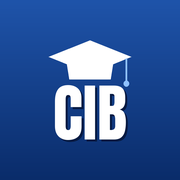
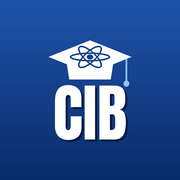
Átomo no capelo do ícone e cartão-resposta como ícone da Revisão ENEM
Claude-Session: https://claude.ai/code/session_01Gk3ac94Cfx6E4qgia26HRX

Changed region(s): [[0.3889, 0.25, 0.6111, 0.3889]]

diff --git a/index.html b/index.html
@@ -1158,6 +1158,8 @@ const Q_INDUCAO_2 = [
 /* ===== Estrutura do site: temas e listas. Para adicionar material, inclua um item em "listas" ou um novo tema. ===== */
 /* Capelo (ícone da revisão para o vestibular) */
 const CAPELO = '<svg viewBox="0 0 40 40" width="30" height="30" aria-hidden="true"><path d="M2 15 L20 7 L38 15 L20 23 Z" fill="currentColor"/><path d="M10 19 V28 Q20 34 30 28 V19 L20 23 Z" fill="currentColor"/><path d="M34 16.5 V27" stroke="currentColor" stroke-width="2"/><circle cx="34" cy="28.5" r="2.2" fill="currentColor"/></svg>';
+/* Cartão-resposta (ícone da revisão para a prova) */
+const CARTAO = '<svg viewBox="0 0 40 40" width="38" height="38" aria-hidden="true"><rect x="5" y="3" width="30" height="34" rx="3" fill="none" stroke="currentColor" stroke-width="2.4"/><circle cx="12.5" cy="12" r="2.7" fill="none" stroke="currentColor" stroke-width="1.5"/><circle cx="20" cy="12" r="2.7" fill="currentColor" stroke="currentColor" stroke-width="1.5"/><circle cx="27.5" cy="12" r="2.7" fill="none" stroke="currentColor" stroke-width="1.5"/><circle cx="12.5" cy="21" r="2.7" fill="none" stroke="currentColor" stroke-width="1.5"/><circle cx="20" cy="21" r="2.7" fill="none" stroke="currentColor" stroke-width="1.5"/><circle cx="27.5" cy="21" r="2.7" fill="currentColor" stroke="currentColor" stroke-width="1.5"/><circle cx="12.5" cy="30" r="2.7" fill="currentColor" stroke="currentColor" stroke-width="1.5"/><circle cx="20" cy="30" r="2.7" fill="none" stroke="currentColor" stroke-width="1.5"/><circle cx="27.5" cy="30" r="2.7" fill="none" stroke="currentColor" stroke-width="1.5"/></svg>';
 const SITE = {
   escola: 'Colégio Israelita Brasileiro',
   turma: '3ª série',
@@ -1166,7 +1168,7 @@ const SITE = {
   prof: 'Prof. Ricieri',
   temas: [
     {
-      id: 'enem', ico: CAPELO, nome: 'Revisão ENEM', cls: 'th-enem', estilo: 'estrada', deco: 'conquista',
+      id: 'enem', ico: CARTAO, nome: 'Revisão ENEM', cls: 'th-enem', estilo: 'estrada', deco: 'conquista',
       resumo: 'As 30 questões do aulão de Física, divididas em três listas por área.',
       listas: [
         { id: 'eletricidade', key: 'cib3-enem-eletricidade-v1', num: 1,

diff --git a/fonte/engine_app.js b/fonte/engine_app.js
@@ -1,6 +1,8 @@
 /* ===== Estrutura do site: temas e listas. Para adicionar material, inclua um item em "listas" ou um novo tema. ===== */
 /* Capelo (ícone da revisão para o vestibular) */
 const CAPELO = '<svg viewBox="0 0 40 40" width="30" height="30" aria-hidden="true"><path d="M2 15 L20 7 L38 15 L20 23 Z" fill="currentColor"/><path d="M10 19 V28 Q20 34 30 28 V19 L20 23 Z" fill="currentColor"/><path d="M34 16.5 V27" stroke="currentColor" stroke-width="2"/><circle cx="34" cy="28.5" r="2.2" fill="currentColor"/></svg>';
+/* Cartão-resposta (ícone da revisão para a prova) */
+const CARTAO = '<svg viewBox="0 0 40 40" width="38" height="38" aria-hidden="true"><rect x="5" y="3" width="30" height="34" rx="3" fill="none" stroke="currentColor" stroke-width="2.4"/><circle cx="12.5" cy="12" r="2.7" fill="none" stroke="currentColor" stroke-width="1.5"/><circle cx="20" cy="12" r="2.7" fill="currentColor" stroke="currentColor" stroke-width="1.5"/><circle cx="27.5" cy="12" r="2.7" fill="none" stroke="currentColor" stroke-width="1.5"/><circle cx="12.5" cy="21" r="2.7" fill="none" stroke="currentColor" stroke-width="1.5"/><circle cx="20" cy="21" r="2.7" fill="none" stroke="currentColor" stroke-width="1.5"/><circle cx="27.5" cy="21" r="2.7" fill="currentColor" stroke="currentColor" stroke-width="1.5"/><circle cx="12.5" cy="30" r="2.7" fill="currentColor" stroke="currentColor" stroke-width="1.5"/><circle cx="20" cy="30" r="2.7" fill="none" stroke="currentColor" stroke-width="1.5"/><circle cx="27.5" cy="30" r="2.7" fill="none" stroke="currentColor" stroke-width="1.5"/></svg>';
 const SITE = {
   escola: 'Colégio Israelita Brasileiro',
   turma: '3ª série',
@@ -9,7 +11,7 @@ const SITE = {
   prof: 'Prof. Ricieri',
   temas: [
     {
-      id: 'enem', ico: CAPELO, nome: 'Revisão ENEM', cls: 'th-enem', estilo: 'estrada', deco: 'conquista',
+      id: 'enem', ico: CARTAO, nome: 'Revisão ENEM', cls: 'th-enem', estilo: 'estrada', deco: 'conquista',
       resumo: 'As 30 questões do aulão de Física, divididas em três listas por área.',
       listas: [
         { id: 'eletricidade', key: 'cib3-enem-eletricidade-v1', num: 1,

diff --git a/sw.js b/sw.js
@@ -1,6 +1,6 @@
 /* Funciona sem internet: guarda o app no celular.
    Ao publicar uma versão nova, mude o número em VERSAO. */
-const VERSAO = 'fisica3cib-v4';
+const VERSAO = 'fisica3cib-v5';
 const BASE = ['./', './index.html', './manifest.webmanifest', './icons/icon-192.png', './icons/icon-512.png', './icons/maskable-512.png', './icons/apple-touch-icon.png', './icons/favicon.png',
   './img/q04.png', './img/q05.png', './img/q10.png', './img/q12.png', './img/q13.png', './img/q15.png', './img/q18.png', './img/q22.png', './img/q24.png', './img/q28.png', './img/q30.png'];
 
